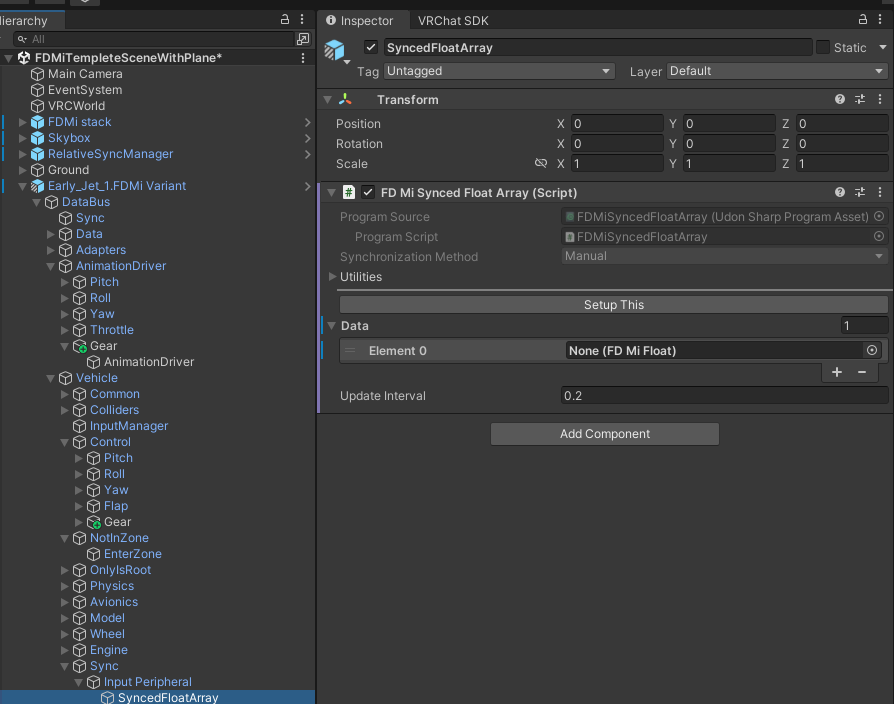
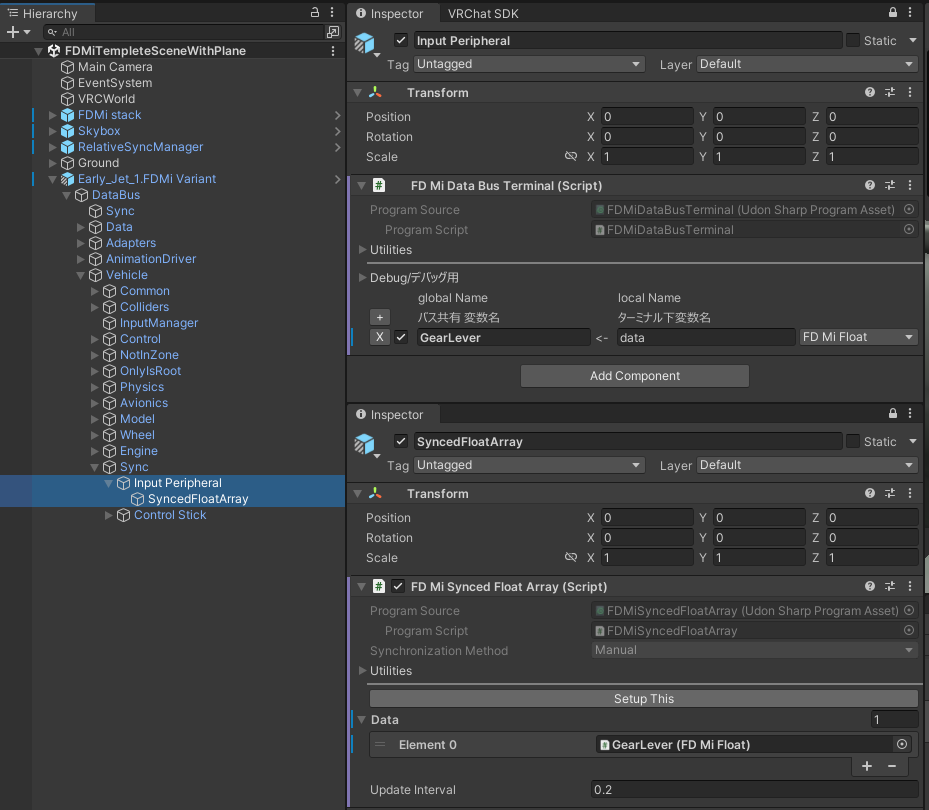
docs: tutorial-plane/3.input-output

diff --git a/docs~/docs/tutorial - plane/3.input_output.md b/docs~/docs/tutorial - plane/3.input_output.md
@@ -4,11 +4,15 @@ sidebar_position: 3
 
 # 機体 インプット/アニメーション 設定
 :::warning
-
 この節を始める前に、（[機体 3Dモデル・同期設定](/tutorial%20-%20plane/installation)）を必ず終わらせてください。  
 もしくは、`FDMi - Example`パッケージ中に含まれるサンプル例を開いて確認して下さい。
-
 :::
+
+:::tip
+サンプル機に同様の設定を施してあります。お手元に用意して、参考にしてください。  
+以下の記事内容は、**まず文字は見ず、記事中の図とサンプルをみることをお勧めします。**
+:::
+
 ## 1.概要
 この章では、FDMiにおける「入力」と「出力」、「FDMiData」の設定方法を説明します。
   
@@ -37,7 +41,7 @@ FDMiDataは「値を保持する」機構、とも言えます。
 
 ## 2 設定方法
 
-以下、例として、ギアレバー及び脚の伸縮アニメーションを設定します。
+以下、例として、ギアレバー及び脚の展開アニメーションを設定します。
 今回は、VRのコントローラを上下に動かすと、ギアレバーが動作するように設定します。
 
 ### 2.1 理想状態
@@ -203,7 +207,7 @@ Leverを手で回したり(Rotate)、ひねったり(Twist)する動作の際の
 正常に設定できていれば、手の動きに応じてレバーが動作するはずです。
 上手くいかないときは,`FDMiLeverInput`の`Muiltiplier`、および`FDMiTransformRotationDriver`の`Muiltiplier`を確認してください。
 
-### 2.5 出力：ギア格納・伸縮(`FDMiAnimatorDriver`)
+### 2.5 出力：ギア格納・展開(`FDMiAnimatorDriver`)
 :::warning
 ここでは、「見た目」の変化のみを設定します。WheelColliderの設定は別で行います。
 :::
@@ -211,14 +215,117 @@ Leverを手で回したり(Rotate)、ひねったり(Twist)する動作の際の
 次に、ギアの格納アニメーションを作成してみます。  
 まず、ギアの格納をAnimatorに設定します。Animatorの設定については、モデル差がありますので詳細は割愛します。
 今回は、以下の様なAnimatorを作成しました。
-- パラメータ`gear`の値に応じて、ギアが伸縮する
+- パラメータ`gear`の値に応じて、ギアが展開する
 　- 0: 展開状態
   - 1: 格納状態
 
 ここで、`FDMiData`の値を用いてAnimatorのパラメータを変化させていきます。
 ただし、`GearLever`の値そのままだと、脚の格納が一瞬で終わってしまうため、「`GearLever`を1にしたら、ゆっくり格納される」挙動を作成していきます。
 
+完成形は以下の図に示す通りです。
+`GearLever`の値にディレイ(遅れ)をかけたFDMiFloat、`GearRetract`を用意し、その値をAnimatorに書き込みます。
+![AnimatorDriver_Overview](images/input_output/AnimatorDriver_Overview.png)
+
+#### 2.5.1 ディレイ(FDMiFloatMixer)
+
+まず、`GearLever`の値にディレイをかけます。これには`FDMiFloatMixer`を使用します。
+今回は`Vehicle/Control/Gear`の子に`FDMiFloatMixer`を作成します。
 
 ![FDMiFloatMixer](images/input_output/FDMiFloatMixer.png)
 
+各項目は以下の通り設定します。
+
+- `output`: 出力先の`FDMiFloat`を設定します。
+  - 今回は`Vehicle/Control/Gear`に`FDMiDataBusTermianl`を置き、自動設定します。
+- `data`: 入力の`FDMiFloat`を設定します。
+  - `Output`は、各`data`の**総和**に対しディレイやOutput Curveをかけた結果が代入されます。
+  - 今回は`Vehicle/Control/Gear`に`FDMiDataBusTermianl`を置き、自動設定します。
+- `T`: 0.2 = 1/5(s)
+  - 入力に対する出力の遅れを定義します。
+  - 今回は、5秒かけて脚を展開してほしいため、1/5=0.2を設定します
+- `outputCurve`: 入力の総和に対し、出力のマッピングを行います。横軸が`data`の総和・縦軸が`Output`になります
+  - 今回は`data`の総和と`Output`が1:1対応になるような設定にします
+- `useUpdate`:　☐（無効）
+    - Update()毎に`Output`を変更します
+- `useOnChange`:　☑(有効)
+    -  各`data`が変更される毎に`Output`を変更します
+
+次に、`Vehicle/Control/Gear`に`FDMiDataBusTermianl`を配置します。
+
+![gear_mixer_terminal](images/input_output/gear_mixer_terminal.png)
+
+- `GearRetract`:出力です。です。`FDMiFloatMixer`の`output`に代入されるよう設定します。
+- `GearLever`: 入力です。`FDMiFloatMixer`の`data`に代入されるよう設定します。
+
+:::note
+`FDMiData`(`FDMiFloat`等)の配列に、`FDMiDataBusTermianl`から代入したいときは、配列の順に、配列名を書いてください。
+(複数個の`FDMiData`を、`FDMiDataBusTerminal`から代入することができます。)
+:::
+
+:::tip
+`local Name`に入れる名称の正しい綴り（大文字/小文字）などがわからないときは、代入したい項目を**右クリックし、`Copy Property Path`**を行えば、正式名称をクリップボードにコピーできます。
+
+![copy_property_path](images/input_output/copy_property_path.png)
+
+:::
+
+#### 2.5.2 ギア格納・展開(`FDMiAnimatorDriver`)
+
+次に、Animatorを動かしていきます。  
+まず、Animatorを設定します。今回は`Vehicle/Model`に`Animator`コンポーネントを配置しました。
+今回は、"gear"パラメータに応じて、脚の位置を稼働させるAnimationが配置されています。
+
+![Animator_Settings](images/input_output/Animator_Settings.png)
+
+それでは、`Vechicle`と同じ階層にある`AnimationDriver`以下に、"gear"パラメータを変化させる`FDMiAnimatorDriver`を設定します。
+
+![AnimatorDriver_Settigns](images/input_output/gear_AnimatorDriver_Settings.png)
+
+- `AnimatorDriver/Gear`に`FDMiDataBusTerminal`を配置します。
+  - `GearRetract`を、配下の`Input`に自動設定されるよう設定します。
+- `AnimatorDriver/Gear`の子に`FDMiAnimatorDriver`を配置します。
+  - `Input`: 入力です。`FDMiDataBusTerminal`から設定されます。
+  - `Animator`: パラメータを変更させたい対象のAnimatorを設定します。今回は`Vehicle/Model`を選択しています。
+  - `Paramator`: `Animator`内の、値を変化させたいパラメータに対応する文字列を記入します。今回は"gear"です。
+  - `outputValue`: 横軸`Input`対し、縦軸`Paramator`の値をどのように変化させるかを設定します
+
+ここまでできたら、Unity上部メニューから`FDMi/Setup All FDMi Components`を選択し、自動設定を実行してください。
+VRChat上で、ギアレバーを動かすと、脚が格納するようになります。
+
 ## 3. 同期の設定
+
+このままでは、脚の格納・展開状態を、自分以外の人に伝えられないので、同期を設定します。
+同期の設定方法は２通りあります。
+- `FDMiFloat`を`FDMiSyncedFloat`に置き換える
+- `FDMiSynedFloatArray`を使用する
+
+今回は後者を使用します。  
+前者に対する後者のメリットは、同期したい/したくないを後から変更・管理しやすい点です。  
+(`FDMiSyncedFloat`を使うと、何が同期対象なのか分かりづらくなってしまう、それだけです。好みで使ってください。)
+
+今回は、`GearLever`を同期対象とします。直接的な展開・格納状態(`GearRetract`)は同期せず各個で計算する形にします。
+
+![syncedFloatArray](images/input_output/syncedFloatArray.png)
+
+- `Vehicle/Sync/InputPeripheral`に`FDMiDatabusTerminal`を配置します。
+  - `GearLever`を`FDMiDatabusTerminal`配下の`data`に自動設定されるよう設定します。
+- `Vehicle/Sync/InputPeripheral`の子に`FDMiSyncedFloatArray`を配置します。
+
+ここまでできたら、Unity上部メニューから`FDMi/Setup All FDMi Components`を選択し、自動設定を実行してください。
+これで、脚の格納状態が同期されるようになります。
+
+## 4.アニメーション　デバッグ
+
+ここまでで、アニメーションが設定されたかどうかのテストを**簡潔に**行う方法を解説します。
+`FDMi/Setup All FDMi Components`を押した後、Unity上でPlayモードにします。
+
+![Playmode](images/input_output/Playmode.png)
+
+
+1. `Vehicle/Data`（自動生成された`FDMiData`）から`GearLever`を探します。
+2. `FDMiFloat`の`Data`の数字を"0"⇒"1"にしてみます。
+3. `ClientSimUdonHelper`の`Run Custom Event`から"trigger"を押します
+4. ギアレバーの動作と、ギアの格納をチェックします。
+
+ここで、ギアレバーの位置・回転量がずれていたり、ギア格納アニメーションの速度見てみます。  
+おかしい場合は、各項目にもどって、パラメータを確認します。
